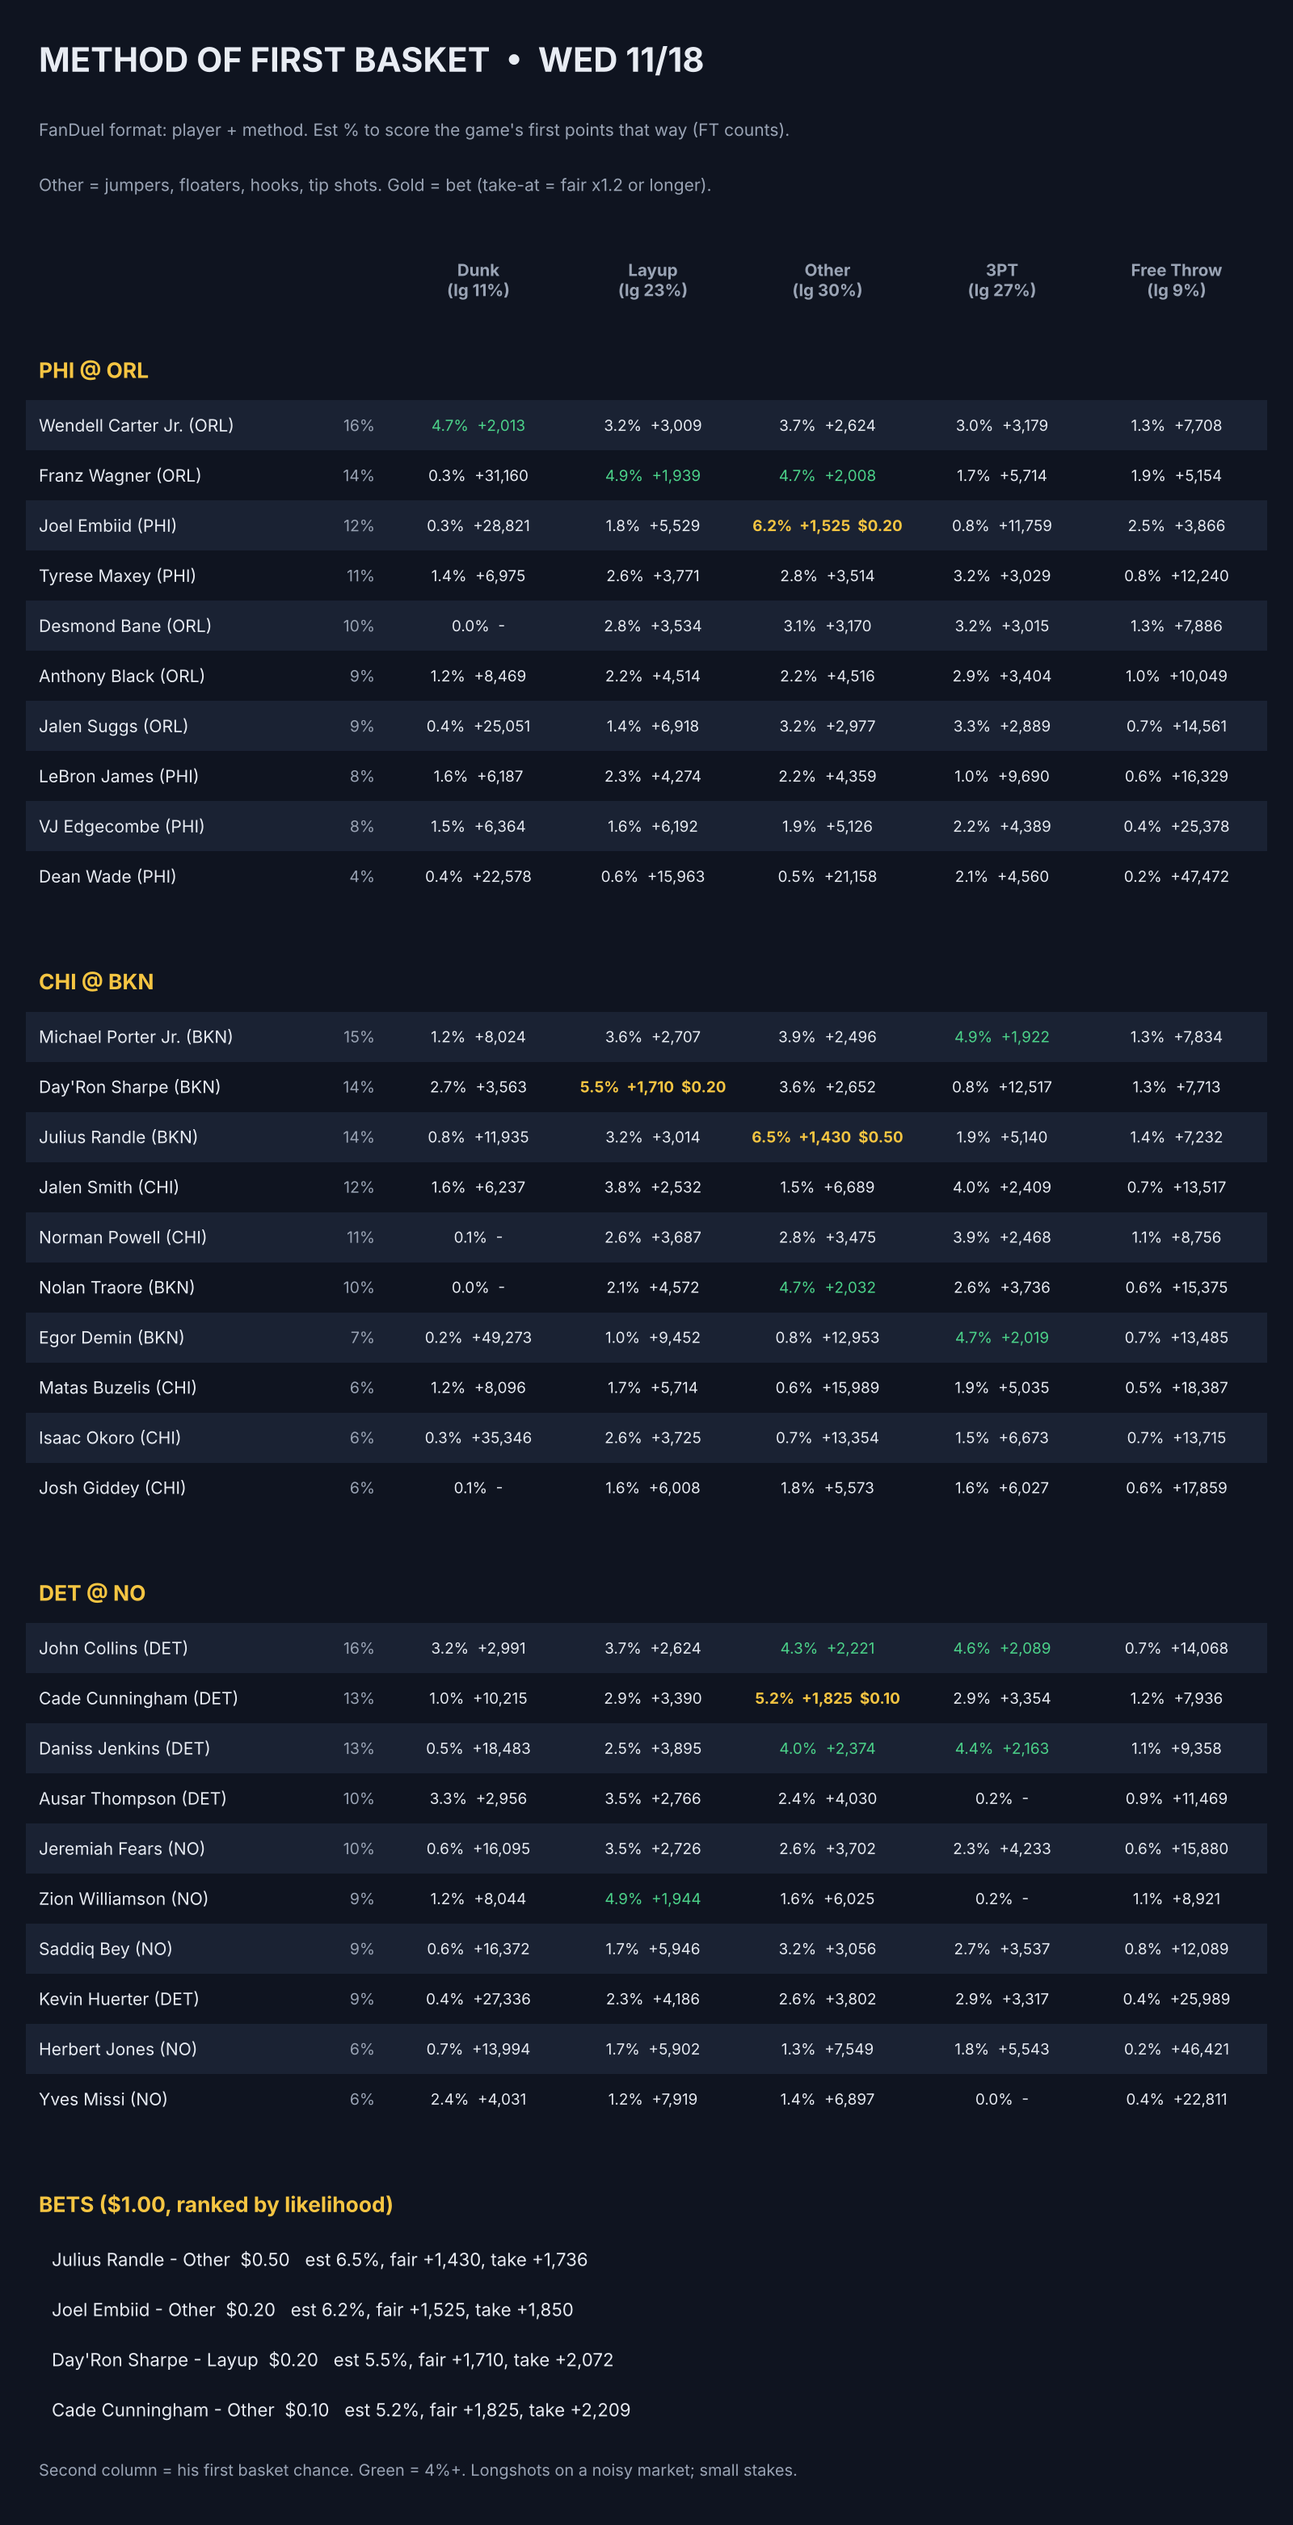
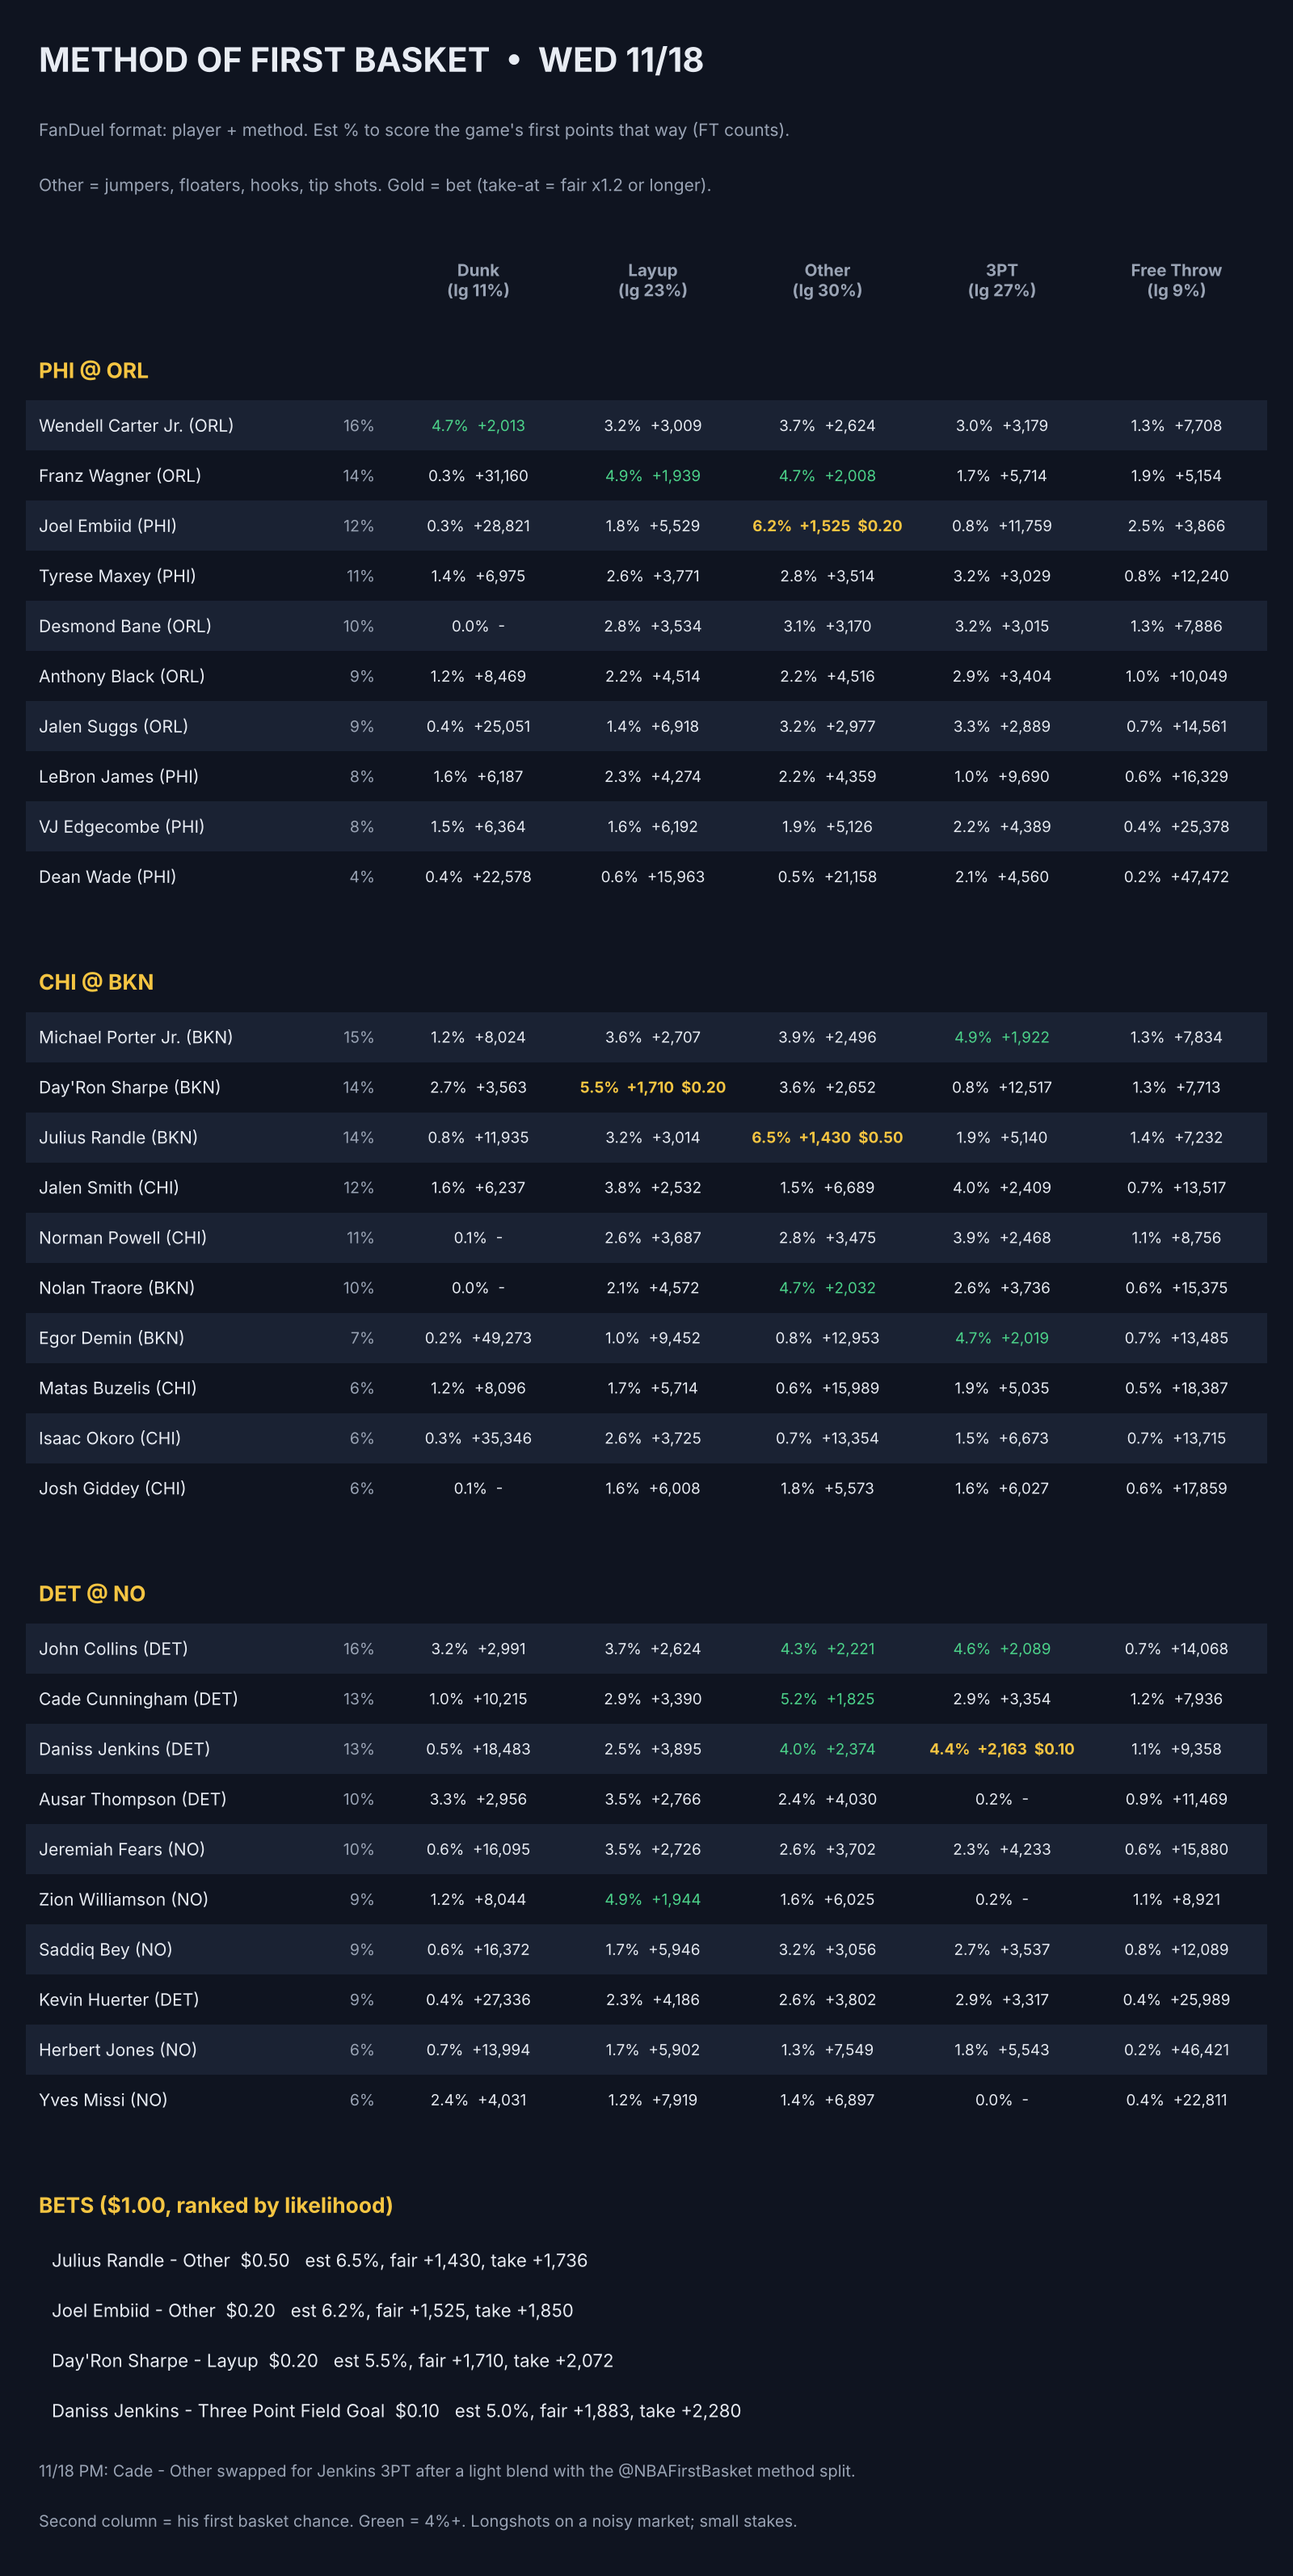
NBA 11/18: log @NBAFirstBasket first basket sheet; swap Cade Other for Jenkins 3PT method longshot
Claude-Session: https://claude.ai/code/session_01TQWUAJSyeczoh1eaRjRwmB

diff --git a/analysis/nba/out/charts/plan_chart.py b/analysis/nba/out/charts/plan_chart.py
@@ -7,7 +7,7 @@ DATE='WED 11/18'; OUT='analysis/nba/out/charts/plan_2026-11-18.png'
 fb=[('PHI @ ORL','7:00','ORL 72%',[('Wendell Carter Jr.','+527'),('Franz Wagner','+636'),('Joel Embiid','+759')],'Banchero OUT; J. Brown OUT; Carter jumps vs Embiid'),
     ('CHI @ BKN','7:30','BKN 76%',[('Michael Porter Jr.','+573'),("Day'Ron Sharpe",'+616'),('Julius Randle','+622')],'Caleb Wilson OUT; Sharpe jumps vs Jalen Smith'),
     ('DET @ NO','8:00','DET 77%',[('John Collins','+506'),('Cade Cunningham','+659'),('Daniss Jenkins','+696')],'Duren OUT; NO: Murphy, Murray, Mathurin OUT')]
-meth=[('Julius Randle - Other (CHI@BKN)','$0.50','+1,430','+1,736'),('Joel Embiid - Other (PHI@ORL)','$0.20','+1,525','+1,850'),("Day'Ron Sharpe - Layup (CHI@BKN)",'$0.20','+1,710','+2,072'),('Cade Cunningham - Other (DET@NO)','$0.10','+1,825','+2,209')]
+meth=[('Julius Randle - Other (CHI@BKN)','$0.50','+1,430','+1,736'),('Joel Embiid - Other (PHI@ORL)','$0.20','+1,525','+1,850'),("Day'Ron Sharpe - Layup (CHI@BKN)",'$0.20','+1,710','+2,072'),('Daniss Jenkins - 3PT (DET@NO)','$0.10','+1,883','+2,280')]
 pars=[('Carter + Porter Jr.','+4,122'),('Carter + Sharpe','+4,391'),('Wagner + Porter Jr.','+4,855'),('Wagner + Sharpe','+5,171'),
       ('Carter + Collins','+3,702'),('Carter + Cunningham','+4,661'),('Wagner + Collins','+4,362'),('Wagner + Cunningham','+5,487'),
       ('Porter Jr. + Collins','+3,984'),('Porter Jr. + Cunningham','+5,013'),('Sharpe + Collins','+4,244'),('Sharpe + Cunningham','+5,339')]

diff --git a/analysis/nba/out/charts/method_chart.py b/analysis/nba/out/charts/method_chart.py
@@ -13,7 +13,7 @@ BG = '#0f1420'; CARD = '#1a2233'; TXT = '#e8ecf3'; MUTED = '#9aa4b5'; GOLD = '#f
 def am(p): d = 1 / p; return '+{:,}'.format(round((d - 1) * 100)) if d >= 2 else '-%d' % round(100 / (d - 1))
 pk = {(k['player'], k['key']): k for k in J['picks']}
 games = J['games']; nrows = sum(len(g['players']) + 1.6 for g in games)
-H = 3.2 + nrows * 0.5 + 2.6 + len(J['picks']) * 0.5
+H = 3.2 + nrows * 0.5 + 2.6 + len(J['picks']) * 0.5 + (0.5 if J.get('sheet_check') else 0)
 fig = plt.figure(figsize=(8, H * 0.62), dpi=200); fig.patch.set_facecolor(BG)
 ax = fig.add_axes([0, 0, 1, 1]); ax.set_xlim(0, 100); ax.set_ylim(0, H); ax.axis('off')
 day = dt.date.fromisoformat(D).strftime('%a %m/%d').upper()
@@ -45,6 +45,9 @@ ax.text(3, y, 'BETS ($1.00, ranked by likelihood)', color=GOLD, fontsize=9.5, we
 for k in J['picks']:
     ax.text(4, y, f"{k['player']} - {k['method']}  ${k['stake']:.2f}   est {k['p'] * 100:.1f}%, fair {k['fair']}, "
             f"take {k['take']}", color=TXT, fontsize=8, va='center'); y -= 0.5
+if J.get('sheet_check'):
+    ax.text(3, y - 0.1, '11/18 PM: Cade - Other swapped for Jenkins 3PT after a light blend with the @NBAFirstBasket method split.',
+            color=MUTED, fontsize=7.2, va='center'); y -= 0.5
 ax.text(3, y - 0.1, 'Second column = his first basket chance. Green = 4%+. Longshots on a noisy market; small stakes.',
         color=MUTED, fontsize=7.2, va='center')
 fig.savefig(OUT, facecolor=BG)

diff --git a/analysis/nba/README.md b/analysis/nba/README.md
@@ -575,6 +575,11 @@ Paired LL deltas on test (SE): kfg_w 1000 -.0000 (.0002), mk_w 10 -.0009 (.0021)
   (Bets 1681-1683) were unbettable. Rebuilt `method_longshots.py` (player + method, FanDuel's 5 methods, new
   `fd_method.py` cache) and rewrote Bets A1681:H1684: Randle - Other $0.50 (fair +1,430), Embiid - Other $0.20
   (+1,525), Sharpe - Layup $0.20 (+1,710), Cunningham - Other $0.10 (+1,825). Charts method and plan re-rendered.
+- 11/18 PM: @NBAFirstBasket first basket cheat sheet (2 cards, 12 games) saved to `data/sources/2026-11-18/` and
+  transcribed to `cheatsheet_firstbasket.csv` (shot / bsk / gm % plus method split); 1st Bsk / 1st Gm added to
+  `out/cheatsheet/fbsheet_log.csv` for the scorecard. Light check (20% sheet method split, ranking only): Randle,
+  Embiid, Sharpe hold; Cade - Other fell to #10 (sheet Oth 21%), Daniss Jenkins - 3PT (sheet 3P 60%) rose to #4 and
+  replaced it in Bets A1684:H1684 ($0.10, est 5.0%, fair +1,883, take +2,280). Sheet note: Horford's method split sums to 120%.
 
 ## Tim vs model log (first basket)
 

diff --git a/analysis/nba/out/play_list_2026-11-18.md b/analysis/nba/out/play_list_2026-11-18.md
@@ -45,7 +45,11 @@ Three Point Field Goal). Other = jumpers, floaters, hooks, tip shots. Ranked by 
 - [ ] Julius Randle - Other (CHI@BKN), $0.50 (est 6.5%, fair +1,430, take +1,736)
 - [ ] Joel Embiid - Other (PHI@ORL), $0.20 (est 6.2%, fair +1,525, take +1,850)
 - [ ] Day'Ron Sharpe - Layup (CHI@BKN), $0.20 (est 5.5%, fair +1,710, take +2,072)
-- [ ] Cade Cunningham - Other (DET@NO), $0.10 (est 5.2%, fair +1,825, take +2,209)
+- [ ] Daniss Jenkins - Three Point Field Goal (DET@NO), $0.10 (est 5.0%, fair +1,883, take +2,280)
+
+11/18 PM check against the @NBAFirstBasket first basket cheat sheet (20% blend of its method split, ranking
+only): Randle, Embiid, Sharpe hold. Cade - Other fell from #4 to #10 (sheet: Oth 21%, 1st Bsk 15%); Jenkins 3PT
+(sheet 3P 60%) moved to #4 and replaced it. Model alone: Jenkins 3PT 4.4% (+2,163).
 
 Replaces the game-level picks (DET@NO FT, DET@NO dunk, PHI@ORL FT, Carter by dunk); FanDuel has no game-level
 method bet. Full player x method table for the 3 games: `out/method_longshots_2026-11-18.json`, chart
